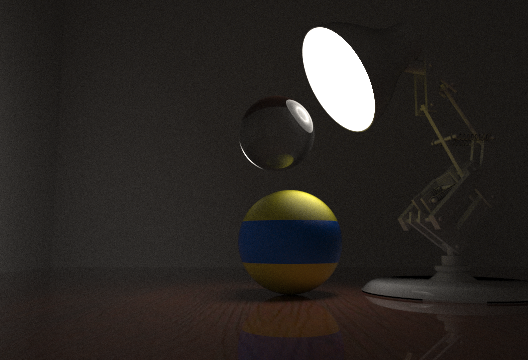
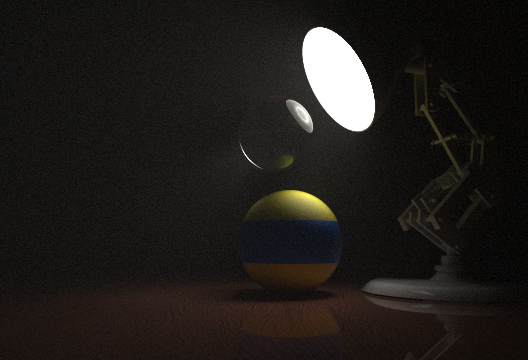
More WIP

diff --git a/src/main.rs b/src/main.rs
@@ -42,7 +42,7 @@ use texture::texture::Texture;
 use texture::textures::{CheckerTexture, ConstantTexture, ImageTexture, NoiseTexture};
 use vec3::Vec3;
 
-static MAX_DEPTH: i32 = 10;
+static MAX_DEPTH: i32 = 50;
 
 /// Calculates a final color value for a given Ray
 fn get_color(ray: &Ray, world: &BvhNode, depth: i32) -> Vec3 {
@@ -364,10 +364,10 @@ fn create_debug_scene() -> BvhNode {
     let mist = Arc::new(ConstantMedium::new(
         Arc::new(Sphere {
             center: Vec3::new(0.0, 0.0, 0.0),
-            radius: 200.0,
+            radius: 2000.0,
             material: Arc::new(Dielectric::new(1.0)),
         }),
-        0.0025,
+        0.005,
         Arc::new(ConstantTexture::new(Vec3::new(1.0, 1.0, 1.0))),
     ));
 
@@ -375,13 +375,13 @@ fn create_debug_scene() -> BvhNode {
         Arc::new(RotateY::new(lamp, -110.0)),
         table_top,
         glass_ball,
-        left_wall,
-        right_wall,
-        back_wall,
-        front_wall,
-        ceiling,
-        // mist,
+        mist,
         toy_ball,
+        // left_wall,
+        // right_wall,
+        // back_wall,
+        // front_wall,
+        // ceiling,
     ];
     BvhNode::new(&mut HitableList { list }, 0.0, 1.0)
 }
@@ -718,7 +718,7 @@ fn main() {
     // let num_y = 300;
     // n and m are the dimensions of the subpixel grid generated for anti-aliasing
     // let (n, m) = (2, 2);
-    let (n, m) = (40, 40);
+    let (n, m) = (48, 48);
     let range = Uniform::new(0.0, 1.0);
     let mut img_buff = image::ImageBuffer::new(num_x, num_y);
     let look_from = Vec3::new(-3.0, 2.0, 20.0);
